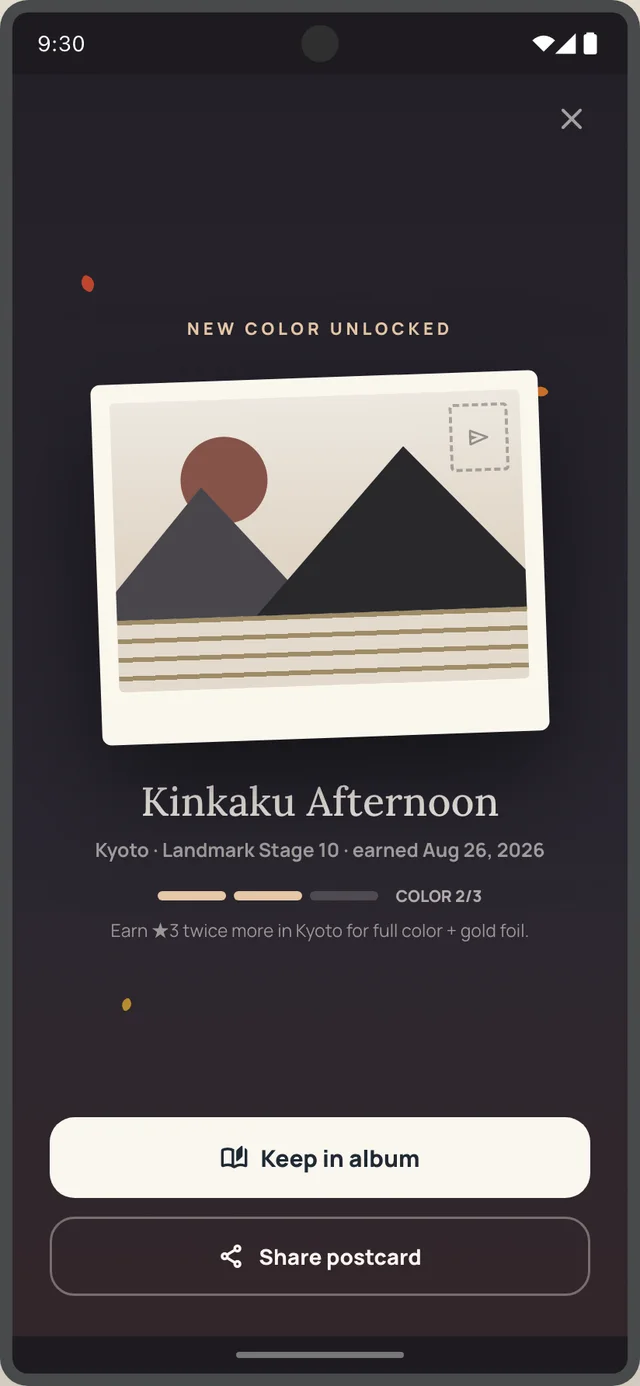
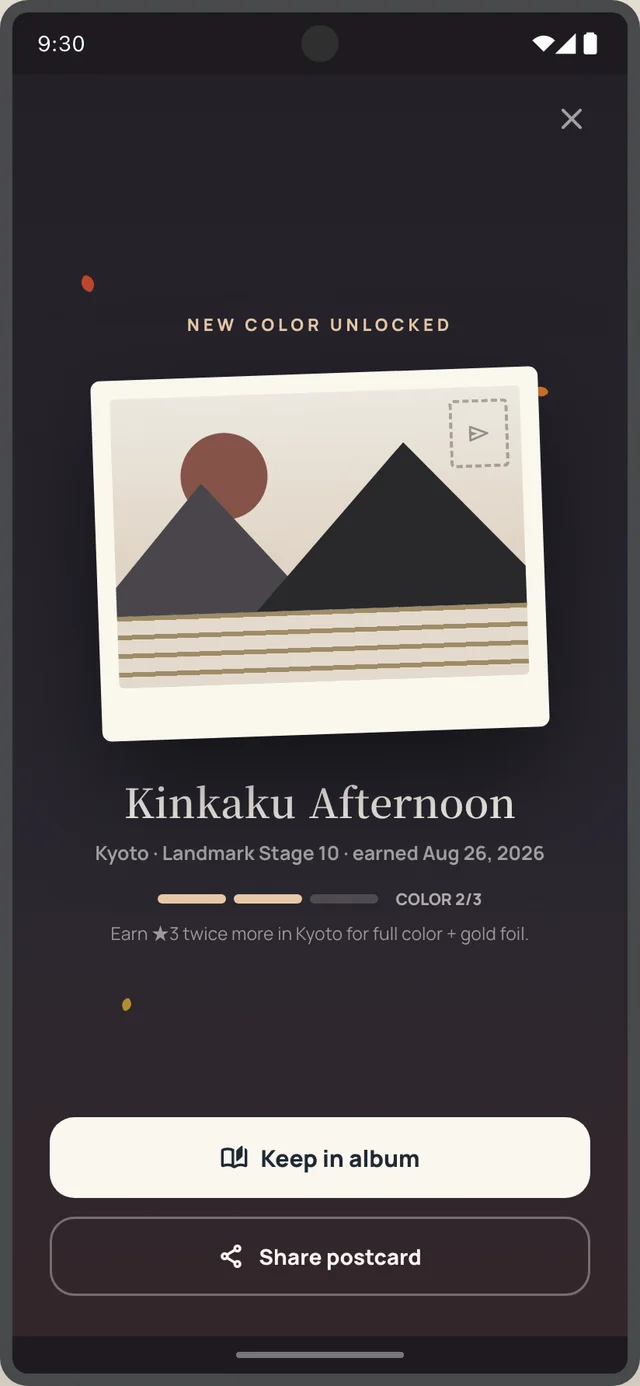
style: 인앱 화면 스크린샷 표제도 Noto Serif KR 600 으로 통일
랜딩 KO 표제를 Noto Serif KR 600 으로 바꾼 것에 맞춰, 스크린샷 안의
표제(시안 Lora)도 같은 서체로 다시 렌더. 랜딩 카피와 그 옆 스크린샷이
같은 결로 읽힌다.

- make_screens.py: 화면 마크업의 font-family:Lora,serif → 'Noto Serif KR',
  weight 는 600 으로 고정. 하네스 폰트 링크에 Noto Serif KR 추가
- 폰트 링크를 display=swap → display=block 으로. CJK 웹폰트가 커서
  swap 이면 헤드리스 캡처가 폴백 메트릭 상태로 찍혀 텍스트가 줄바꿈됐음
  (B7 아카데미 목록 두 줄로 깨지던 문제). 가상시간 예산도 9s → 25s
- Noto Serif KR 라틴이 Lora 보다 넓어 A4 홈의 인사말이 두 줄로 넘어감 —
  해당 표제만 24px → 23px (SERIF_SIZE_FIX)
- 표제가 없는 02-game, 03-dark 는 변화 없음

diff --git a/README.md b/README.md
@@ -52,7 +52,7 @@ sips -s format jpeg -s formatOptions 85 ko-feature-graphic-1024x500.png --out as
 몽글 캐릭터 16종은 이미지가 아니라 빌드 타임에 심어 넣은 인라인 SVG입니다 — Claude Design 의 `MongleChar.dc.html` 로직을 그대로 옮겼습니다.
 스도쿠 보드(랜딩 히어로·힌트 3종·홈 게임 카드·OG)도 같은 방식으로, 시안의 `DCLogic.board()` 를 그대로 옮겨 빌드 타임에 HTML 로 펼쳐 넣습니다.
 
-`/sudoku/` 의 인앱 화면 이미지는 스크린샷이 아니라 **디자인 시안을 실제로 렌더한 결과**입니다. Claude Design 의 `Sudoku Voyage 디자인.dc.html` 을 DC 런타임(`support.js` + `android-frame.jsx`)과 함께 로컬에서 띄우고 화면별로 캡처했습니다. 시안 본문의 `data-dc-script` 는 파일이 커서 API 응답 상한(256KiB)에 잘려 받지 못했기 때문에, 보드·입력판 데이터는 같은 프로젝트의 웹사이트 시안에 있는 `DCLogic` 을 기준으로 재구성했습니다 (스크립트: `scratchpad/make_screens.py`, `dcrender/dclogic.html` — 저장소에는 결과 이미지만 들어옵니다). 시안 주석(§ 참조 줄)과 화면 안의 한국어 주석 라벨은 캡처 전에 제거·영문화했습니다.
+`/sudoku/` 의 인앱 화면 이미지는 스크린샷이 아니라 **디자인 시안을 실제로 렌더한 결과**입니다. Claude Design 의 `Sudoku Voyage 디자인.dc.html` 을 DC 런타임(`support.js` + `android-frame.jsx`)과 함께 로컬에서 띄우고 화면별로 캡처했습니다. 시안 본문의 `data-dc-script` 는 파일이 커서 API 응답 상한(256KiB)에 잘려 받지 못했기 때문에, 보드·입력판 데이터는 같은 프로젝트의 웹사이트 시안에 있는 `DCLogic` 을 기준으로 재구성했습니다 (스크립트: `scratchpad/make_screens.py`, `dcrender/dclogic.html` — 저장소에는 결과 이미지만 들어옵니다). 시안 주석(§ 참조 줄)과 화면 안의 한국어 주석 라벨은 캡처 전에 제거·영문화했고, 표제 서체는 랜딩과 맞추기 위해 시안의 Lora 대신 **Noto Serif KR 600** 으로 렌더합니다.
 
 라이프스타일 라인(피부핑 `/skinping/`, 롤개팅 `/lol.dating/`)은 별도 저장소에서 같은 도메인 하위 경로로 배포되며, 각자의 약관 페이지도 해당 저장소에 있습니다.
 
